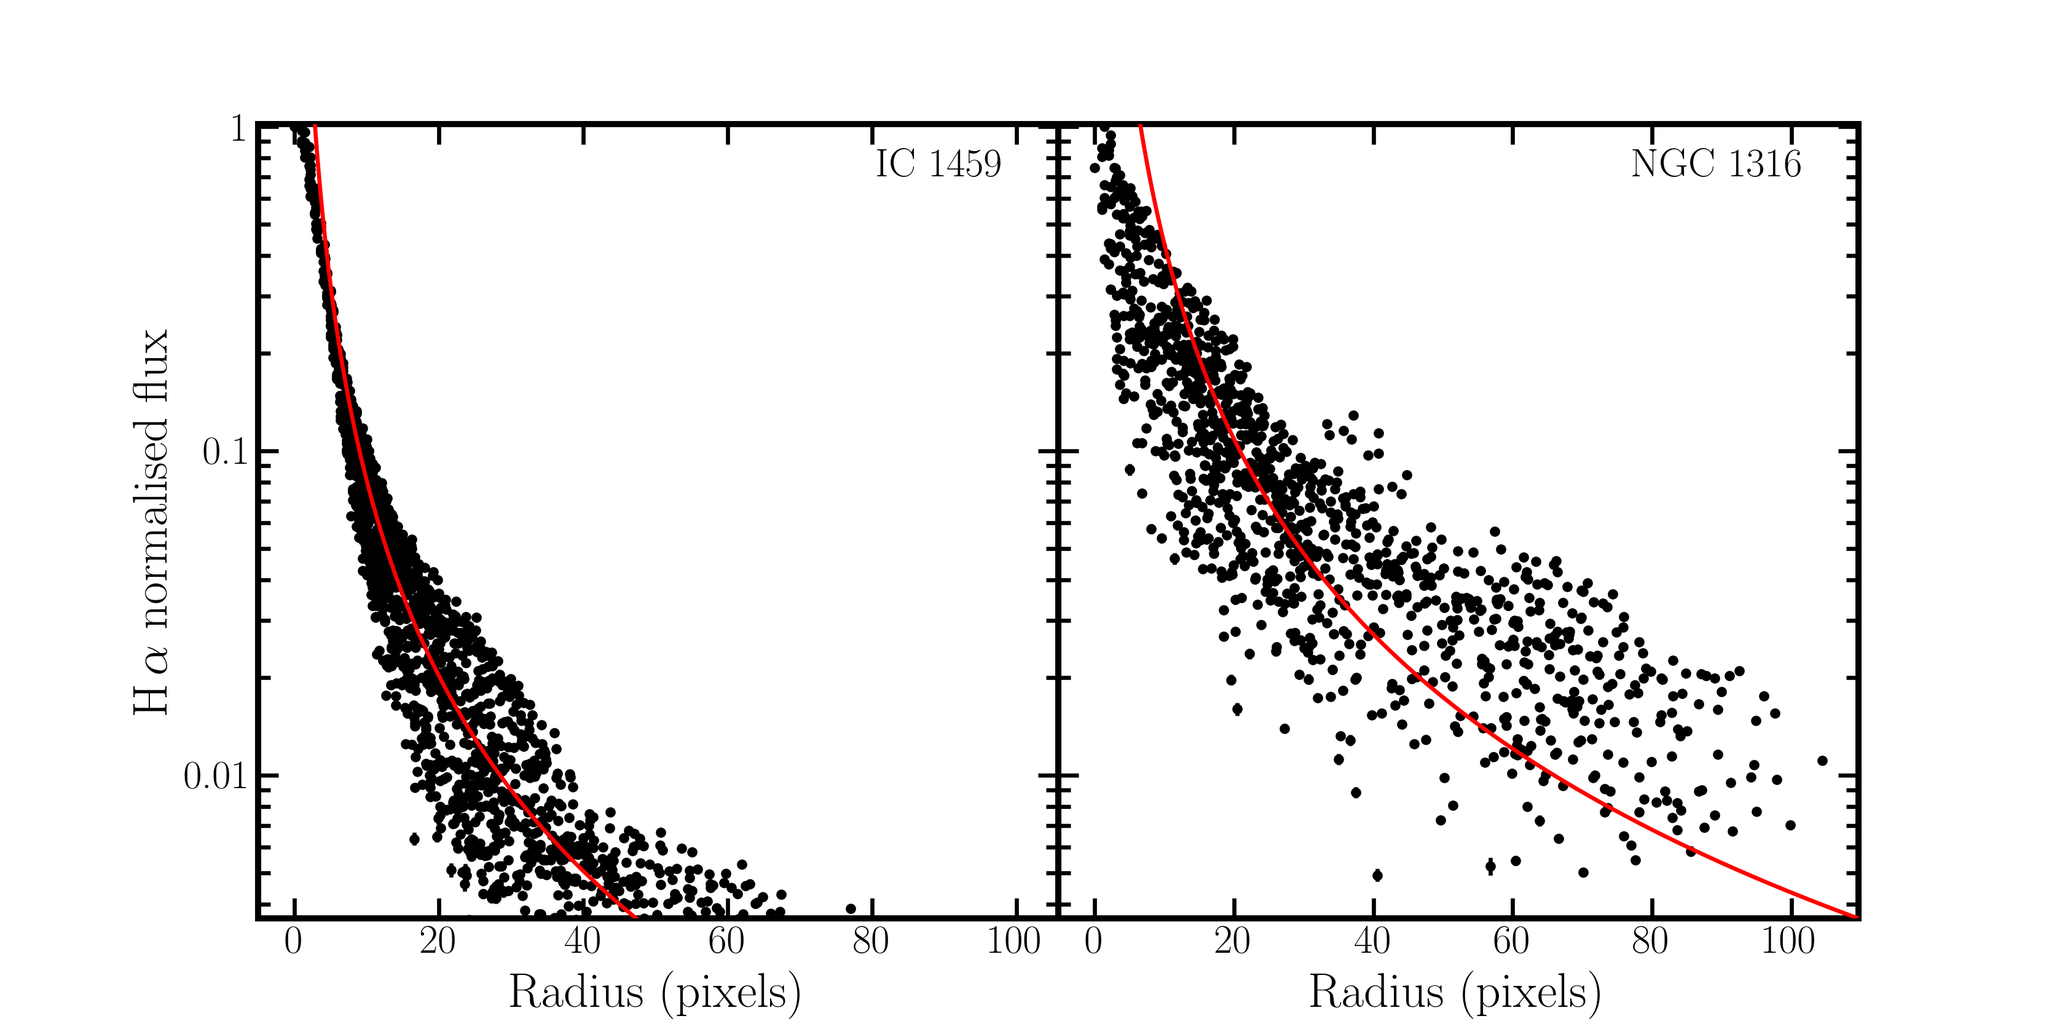
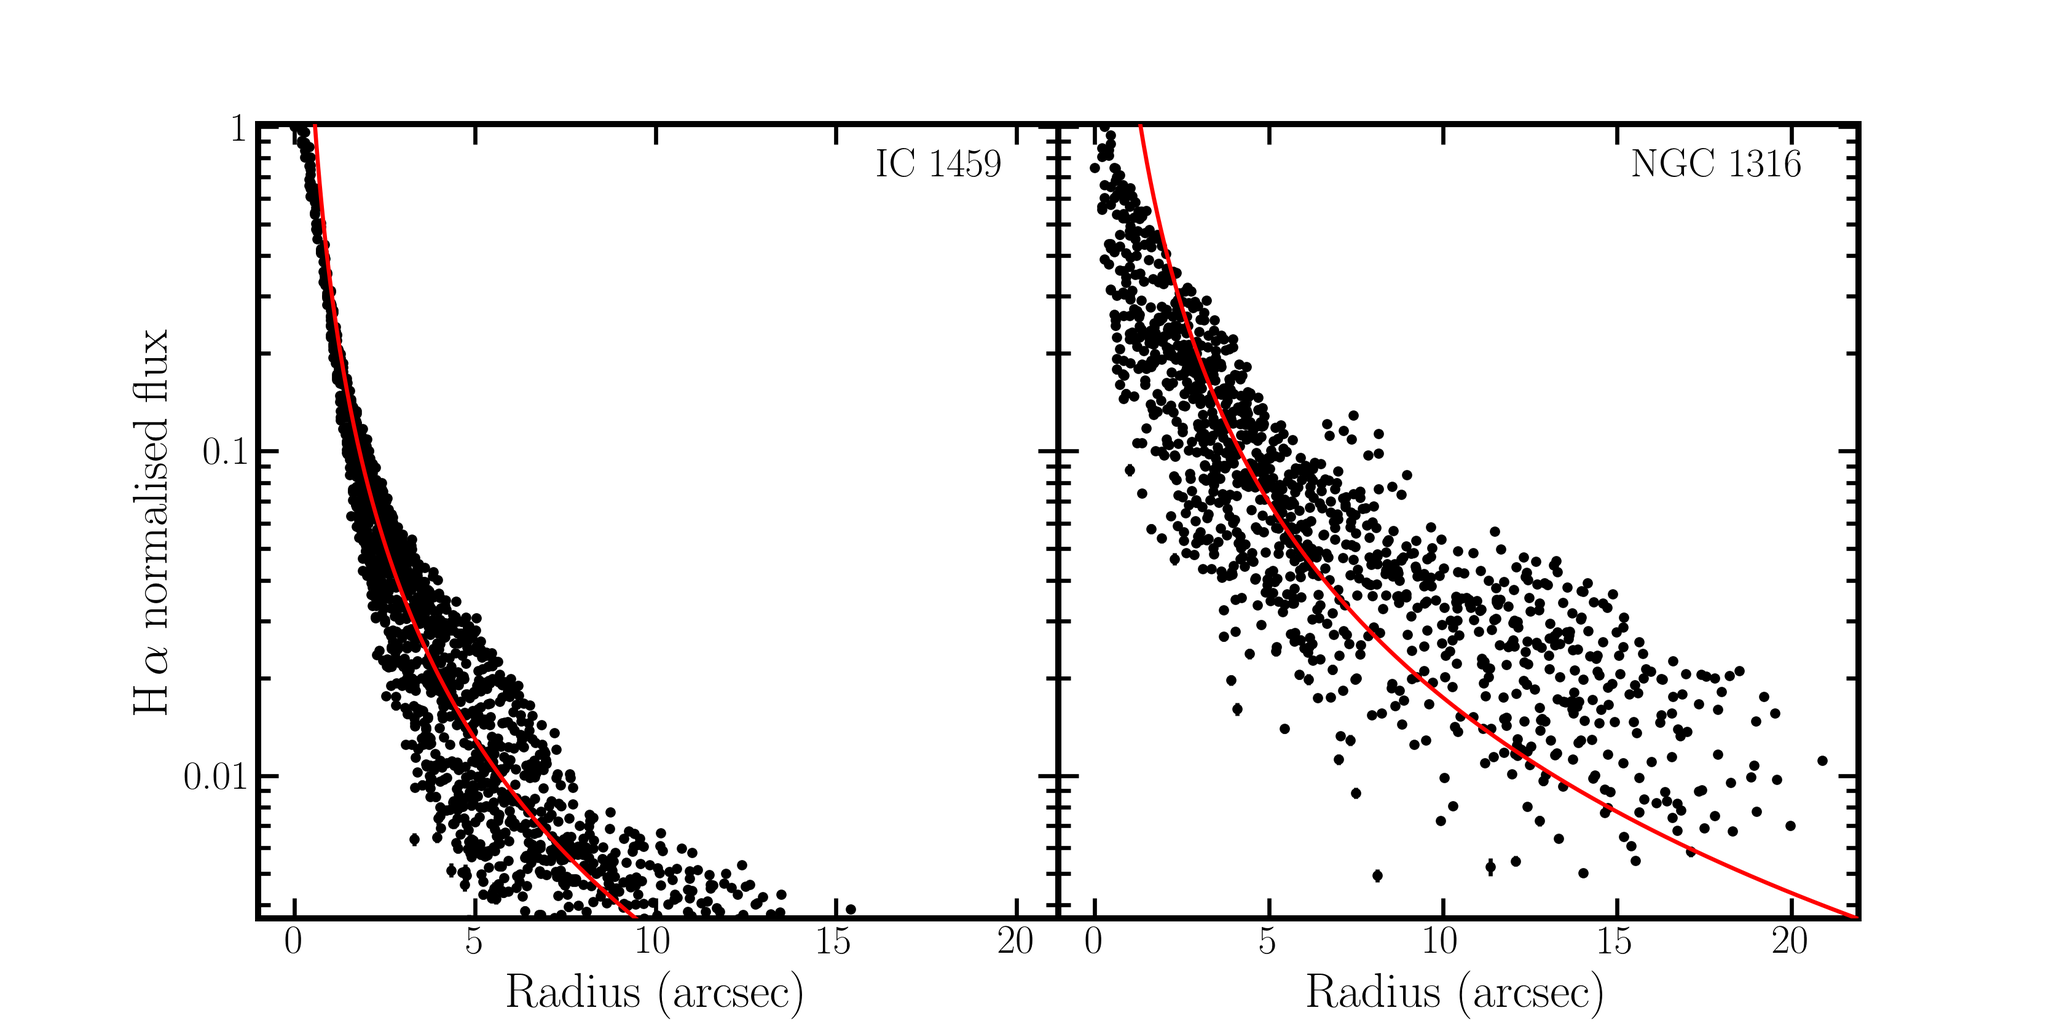
EoDC: Reworking translation to VIMOS emission lines
On branch master
 Changes to be committed:
	new file:   chapter5/EqW_fit.png
	modified:   chapter5/chapter5.tex
	modified:   chapter5/muse/Halpha_profile.png
	modified:   chapter5/produce_kine_plot.py
	new file:   chapter5/ratio_fit.png
	modified:   chapter5/vimos/Hbeta_profile.png

diff --git a/chapter5/chapter5.tex b/chapter5/chapter5.tex
@@ -175,46 +175,64 @@ This chapter is structured as follows. Firstly in Section \ref{sec:gasFlux} the 
 	% \subsection{Using Emission Line Beyond the VIMOS Wavelength Range}
 	\subsection{Extrapolating VIMOS Data}
 		\label{subsec:Ndec}
-
-		The Balmer decrement, $d_\mathrm{H}$, is the ratio of the H$\alpha$ to H$\beta$ fluxes. There are good theoretical motivations for this ratio to be near constant at $d_\mathrm{H} = 2.86$, under a wide variety of conditions. In reality, however, higher values are routinely observed. These can be explained as due to either the presence of dust causing extinction (whereby emission lines at shorter wavelengths appear dimmer than expected from their redder counterparts due to dust preferentially scattering and absorbing bluer light) or some mechanism that populates hydrogen levels from the ground up. Such mechanisms may be important in high-density environments, such as within powerful (type 1) AGN \citep[e.g.][]{Shields1974, Netzer1975}. 
-		%
-		The majority ($\approx 60$\%) of ETGs and all LINER and Seyfert galaxies are dusty \citep[e.g.][]{Martini2013}. 
-		Such galaxies reveal clear dust lanes in \textit{Hubble Space Telescope (HST)} observations \citep[e.g.][]{Martini2013}, are bright in the infrared (where the thermal emission from dust is seen as a dust ``bump''; e.g.\ \citealt{Jura1987, Knapp1992}), and possess other emission lines \citep[e.g.\ \bracket{\ion{S}{ii}};][]{Wampler1968} showing similar reddening. Thus, assuming the observed steepening of the Balmer decrement is entirely due to dust, the ratio of the observed decrement to the theoretical value of 2.86 is a good estimate of the dust reddening.
-
-		If we assume that different ionization states of a given atom occur in the same spatial location, then shielding is not important or at least is not non-linear in its effect on the emission-line ratios. Given that the different species are then produced under the same conditions, it is natural to expect a simple relationship between them. Using the emission line fluxes derived from our MUSE data, we find that the relationship between [\ion{N}{ii}] flux and [\ion{N}{i}] flux is approximately linear (see Fig.\,\ref{fig:NII_NI}). We emphasize that this is a purely empirical correlation and thus differs substantially from the Balmer decrement with its strong theoretical basis. 
-
-% I actually work with luminosity - how will that effect things?
-		To find the intrinsic conversion from [\ion{N}{i}] flux to [\ion{N}{ii}] flux we must first correct for dust reddening. Assuming that the extinction can be approximated by a linear form in the $V$-band, we correct the flux of the bluer emission line of the pair $F_\mathrm{b}$, using
-		\begin{equation}
-			F^\mathrm{corr}_\mathrm{b} = F_\mathrm{b} \left(\frac{\Delta\lambda}{\lambda_\mathrm{H\alpha} - \lambda_\mathrm{H\beta}}\right) \left(\frac{F_\mathrm{H\alpha}}{2.86 F_\mathrm{H\beta}}\right) \, ,
-		\end{equation}
-		where $\Delta\lambda$ is the difference in wavelength between the two lines, $\lambda_\mathrm{H\alpha}$ and $\lambda_\mathrm{H\beta}$ are the rest-frame wavelengths of the H$\alpha$ (6563 \AA) and H$\beta$ (4861 \AA) emission lines with fluxes of $F_\mathrm{H\alpha}$ and $F_\mathrm{H\beta}$, respectively and $F^\mathrm{corr}_\mathrm{b}$ is the dust-corrected flux of the bluer line. The intrinsic conversion can then be found by comparing $F^\mathrm{corr}_\mathrm{b}$ to $F_\mathrm{r}$, the flux of the redder line in the pair. 
-
-		In Fig.\,\ref{fig:NII_NI}, we fit a straight line to the [\ion{N}{ii}] flux versus [\ion{N}{i}] (flux corrected for dust extinction) relation of IC 1459 and NGC 1316 using the least-trimmed squares routine, \textsc{lts\_linefit} of \citet{Cappellari2013} due to its robust handling of the uncertainties along both axes. 
-% THIS NEEDS SOME WORK!!!  *****^^^^^^^^^
-		As can be seen in the figure, there two galaxies have quite different gradients. We require a single function in order to be able to use [\ion{N}{i}] as a proxy for [\ion{N}{ii}] for our VIMOS data. We thus fit each galaxy independently and use the mean gradient, neglecting the intercept. We find a mean gradient of $12.23 \pm 0.14$.
+		As stated above, most of the diagnostic plots for identifying the dominant source of ionization in a given galaxy require measurements of emissions line that lie outside of the spectral range of VIMOS. As such, to be able to classify our VIMOS data in this way we transform the classification boundary lines to plots involving the same atoms, but different ionization species e.g.\ 
+		% Is species the right word?
+		transform from the classic BPT [\ion{N}{ii}]/H$\alpha$ versus [\ion{O}{iii}]/H$\beta$ to [\ion{N}{i}]/H$\beta$ versus [\ion{O}{iii}]/H$\beta$ diagnostic plot (hereafter the SAURON diagnostic plot). 
 
 		\begin{figure}
 			\centering
-			\includegraphics[width=0.7\textwidth]{chapter5/NII_NI_ratio.png}
-			\caption[The nitrogen `decrement']{Nitrogen `decrement': plot of the [\ion{N}{ii}] versus [\ion{N}{i}] flux for the galaxies IC 1459 and NGC 1316, used to transform the classification boundaries of line ratio diagnostics involving [\ion{N}{ii}] to those involving [\ion{N}{i}]. The line fluxes have been corrected for the galaxies' distances.} 
-			\label{fig:NII_NI}
+			\includegraphics[width=0.7\textwidth]{chapter5/ratio_fit.png}
+			\caption[\brackets{\ion{N}{ii}}/H$\alpha$ vs \brackets{\ion{N}{i}}/H$\beta$]{Comparing [\ion{N}{ii}]/H$\alpha$ and [\ion{N}{i}]/H$\beta$ line ratios for the galaxies IC 1459 and NGC 1316, used to transform the classification boundaries of diagnostics involving the H$\alpha$ equivalent width to those involving H$\beta$.} 
+			\label{fig:ratio_relation}
 		\end{figure}
-
-		% Some of the brightest bins in Figs.\,\ref{fig:NII_NI} and \ref{figLOI_OIII} deviate away from the best-fitting line, with an excess in the bluer line. Given that these bins are located at the centre of the galaxy, we suggest that we are possibly over correcting for dust in these regions and that some of the reddening for the Balmer decrement is actually due to the different conditions close to the AGN. 
-
-		To use the H$\beta$ equivalent width instead of the H$\alpha$ equivalent width, we require not only the Balmer decrement, but also the stellar `decrement', i.e.\ the ratio of the continuum level at H$\alpha$ to that at H$\beta$. In the same manner as we did for the Nitrogen `decrement', we find in Fig.\,\ref{fig:stellarDec} an approximately linear relationship between the continuum level at 6563\,\AA, $C_\text{6563\AA}$, and the continuum level corrected for dust extinction at 4861\,\AA, $C^\text{corr}_\text{4861\AA}$, using our MUSE data of IC 1459 and NGC 1316. Using the data shown in Fig.\,\ref{fig:stellarDec}, we find
-		\begin{equation}
-			C_\text{6563\AA} = \,  (0.142\pm0.004757) \times 10^{-6} + (1.047\pm0.008) C^\text{corr}_\text{4861\AA} \, .
-		\end{equation}
-		This is used to be transform the classification boundaries of diagnostics dependent on the equivalent width of H$\alpha$ to those involving H$\beta$. 
 
 		\begin{figure}
 			\centering
-			\includegraphics[width=0.7\textwidth]{chapter5/stellar_ratio.png}
-			\caption[The stellar `decrement']{Stellar `decrement'. Plot of the continuum flux at H$\alpha$ versus the continuum flux at H$\beta$ for the galaxies IC 1459 and NGC 1316, used to transform the classification boundaries of diagnostics involving the H$\alpha$ equivalent width to those involving H$\beta$. As in Fig.\,\ref{fig:NII_NI}m the fluxes have been corrected for the galaxies' distances.} 
-			\label{fig:stellarDec}
+			\includegraphics[width=0.7\textwidth]{chapter5/EQw_fit.png}
+			\caption[Comparing H$\alpha$ and H$\beta$ equivalent widths]{Comparing H$\alpha$ and H$\beta$ equivalent widths for the galaxies IC 1459 and NGC 1316. The best-fit relationship is used to transform the classification boundaries of the classic [\ion{N}{ii}] BPT plot to the SARUON diagnostic plot.} 
+			\label{fig:ratio_relation}
 		\end{figure}
+
+% 		The Balmer decrement, $d_\mathrm{H}$, is the ratio of the H$\alpha$ to H$\beta$ fluxes. There are good theoretical motivations for this ratio to be near constant at $d_\mathrm{H} = 2.86$, under a wide variety of conditions. In reality, however, higher values are routinely observed. These can be explained as due to either the presence of dust causing extinction (whereby emission lines at shorter wavelengths appear dimmer than expected from their redder counterparts due to dust preferentially scattering and absorbing bluer light) or some mechanism that populates hydrogen levels from the ground up. Such mechanisms may be important in high-density environments, such as within powerful (type 1) AGN \citep[e.g.][]{Shields1974, Netzer1975}. 
+% 		%
+% 		The majority ($\approx 60$\%) of ETGs and all LINER and Seyfert galaxies are dusty \citep[e.g.][]{Martini2013}. 
+% 		Such galaxies reveal clear dust lanes in \textit{Hubble Space Telescope (HST)} observations \citep[e.g.][]{Martini2013}, are bright in the infrared (where the thermal emission from dust is seen as a dust ``bump''; e.g.\ \citealt{Jura1987, Knapp1992}), and possess other emission lines \citep[e.g.\ \bracket{\ion{S}{ii}};][]{Wampler1968} showing similar reddening. Thus, assuming the observed steepening of the Balmer decrement is entirely due to dust, the ratio of the observed decrement to the theoretical value of 2.86 is a good estimate of the dust reddening.
+
+% 		If we assume that different ionization states of a given atom occur in the same spatial location, then shielding is not important or at least is not non-linear in its effect on the emission-line ratios. Given that the different species are then produced under the same conditions, it is natural to expect a simple relationship between them. Using the emission line fluxes derived from our MUSE data, we find that the relationship between [\ion{N}{ii}] flux and [\ion{N}{i}] flux is approximately linear (see Fig.\,\ref{fig:NII_NI}). We emphasize that this is a purely empirical correlation and thus differs substantially from the Balmer decrement with its strong theoretical basis. 
+
+% % I actually work with luminosity - how will that effect things?
+% 		To find the intrinsic conversion from [\ion{N}{i}] flux to [\ion{N}{ii}] flux we must first correct for dust reddening. Assuming that the extinction can be approximated by a linear form in the $V$-band, we correct the flux of the bluer emission line of the pair $F_\mathrm{b}$, using
+% 		\begin{equation}
+% 			F^\mathrm{corr}_\mathrm{b} = F_\mathrm{b} \left(\frac{\Delta\lambda}{\lambda_\mathrm{H\alpha} - \lambda_\mathrm{H\beta}}\right) \left(\frac{F_\mathrm{H\alpha}}{2.86 F_\mathrm{H\beta}}\right) \, ,
+% 		\end{equation}
+% 		where $\Delta\lambda$ is the difference in wavelength between the two lines, $\lambda_\mathrm{H\alpha}$ and $\lambda_\mathrm{H\beta}$ are the rest-frame wavelengths of the H$\alpha$ (6563 \AA) and H$\beta$ (4861 \AA) emission lines with fluxes of $F_\mathrm{H\alpha}$ and $F_\mathrm{H\beta}$, respectively and $F^\mathrm{corr}_\mathrm{b}$ is the dust-corrected flux of the bluer line. The intrinsic conversion can then be found by comparing $F^\mathrm{corr}_\mathrm{b}$ to $F_\mathrm{r}$, the flux of the redder line in the pair. 
+
+% 		In Fig.\,\ref{fig:NII_NI}, we fit a straight line to the [\ion{N}{ii}] flux versus [\ion{N}{i}] (flux corrected for dust extinction) relation of IC 1459 and NGC 1316 using the least-trimmed squares routine, \textsc{lts\_linefit} of \citet{Cappellari2013} due to its robust handling of the uncertainties along both axes. 
+% % THIS NEEDS SOME WORK!!!  *****^^^^^^^^^
+% 		As can be seen in the figure, there two galaxies have quite different gradients. We require a single function to be able to use [\ion{N}{i}] as a proxy for [\ion{N}{ii}] for our VIMOS data. We thus fit each galaxy independently and use the mean gradient, neglecting the intercept. We find a mean gradient of $12.23 \pm 0.14$.
+
+% 		\begin{figure}
+% 			\centering
+% 			\includegraphics[width=0.7\textwidth]{chapter5/NII_NI_ratio.png}
+% 			\caption[The nitrogen `decrement']{Nitrogen `decrement': plot of the [\ion{N}{ii}] versus [\ion{N}{i}] flux for the galaxies IC 1459 and NGC 1316, used to transform the classification boundaries of line ratio diagnostics involving [\ion{N}{ii}] to those involving [\ion{N}{i}]. The line fluxes have been corrected for the galaxies' distances.} 
+% 			\label{fig:NII_NI}
+% 		\end{figure}
+
+% 		% Some of the brightest bins in Figs.\,\ref{fig:NII_NI} and \ref{figLOI_OIII} deviate away from the best-fitting line, with an excess in the bluer line. Given that these bins are located at the centre of the galaxy, we suggest that we are possibly over correcting for dust in these regions and that some of the reddening for the Balmer decrement is actually due to the different conditions close to the AGN. 
+
+% 		To use the H$\beta$ equivalent width instead of the H$\alpha$ equivalent width, we require not only the Balmer decrement, but also the stellar `decrement', i.e.\ the ratio of the continuum level at H$\alpha$ to that at H$\beta$. In the same manner as we did for the Nitrogen `decrement', we find in Fig.\,\ref{fig:stellarDec} an approximately linear relationship between the continuum level at 6563\,\AA, $C_\text{6563\AA}$, and the continuum level corrected for dust extinction at 4861\,\AA, $C^\text{corr}_\text{4861\AA}$, using our MUSE data of IC 1459 and NGC 1316. Using the data shown in Fig.\,\ref{fig:stellarDec}, we find
+% 		\begin{equation}
+% 			C_\text{6563\AA} = \,  (0.142\pm0.004757) \times 10^{-6} + (1.047\pm0.008) C^\text{corr}_\text{4861\AA} \, .
+% 		\end{equation}
+% 		This is used to be transform the classification boundaries of diagnostics dependent on the equivalent width of H$\alpha$ to those involving H$\beta$. 
+
+% 		\begin{figure}
+% 			\centering
+% 			\includegraphics[width=0.7\textwidth]{chapter5/stellar_ratio.png}
+% 			\caption[The stellar `decrement']{Stellar `decrement'. Plot of the continuum flux at H$\alpha$ versus the continuum flux at H$\beta$ for the galaxies IC 1459 and NGC 1316, used to transform the classification boundaries of diagnostics involving the H$\alpha$ equivalent width to those involving H$\beta$. As in Fig.\,\ref{fig:NII_NI}m the fluxes have been corrected for the galaxies' distances.} 
+% 			\label{fig:stellarDec}
+% 		\end{figure}
+
 
 	\subsection{BPT Diagnostics}
 		\label{subsec:BPT}
@@ -234,7 +252,7 @@ This chapter is structured as follows. Firstly in Section \ref{sec:gasFlux} the 
 			\label{fig:SAURON}
 		\end{figure}
 
-		\citet{Sarzi2010} showed that Seyferts, LINERs and star-forming galaxies are reasonable separated in the [\ion{N}{i}]/H$\beta$ versus [\ion{O}{iii}]/H$\beta$ diagnostic plot (hereafter the SAURON diagnostic plot). To exploit the VIMOS datacubes we thus use the [\ion{N}{ii}] -- [\ion{N}{i}] relation derived in Section \ref{subsec:Ndec}, along with the Balmer decrement, to transform the \citet{Kewley2001} extreme starburst and the \citet{Kauffmann2003a} pure star-formation boundaries in the [\ion{N}{ii}]/H$\alpha$ versus [\ion{O}{iii}]/H$\beta$ plot to boundaries in the SAURON plot. For the MUSE datacubes, only IC 1459 and NGC 1316 have detections of [\ion{N}{i}]. Given that we already have the superior classic BPT plots for these galaxies, we only show the VIMOS-derived SAURON diagnostic plot. This is shown in Fig.\,\ref{fig:SAURON} for all 6 VIMOS galaxies with detectable, spatially-resolved emission lines. All exhibit LINER-AGN behaviour.
+		\citet{Sarzi2010} showed that Seyferts, LINERs and star-forming galaxies are reasonable separated in the SAURON diagnostic plot. To exploit the VIMOS datacubes we thus use the [\ion{N}{ii}] -- [\ion{N}{i}] relation derived in Section \ref{subsec:Ndec}, along with the Balmer decrement, to transform the \citet{Kewley2001} extreme starburst and the \citet{Kauffmann2003a} pure star-formation boundaries in the [\ion{N}{ii}]/H$\alpha$ versus [\ion{O}{iii}]/H$\beta$ plot to boundaries in the SAURON plot. For the MUSE datacubes, only IC 1459 and NGC 1316 have detections of [\ion{N}{i}]. Given that we already have the superior classic BPT plots for these galaxies, we only show the VIMOS-derived SAURON diagnostic plot. This is shown in Fig.\,\ref{fig:SAURON} for all 6 VIMOS galaxies with detectable, spatially-resolved emission lines. All exhibit LINER-AGN behaviour.
 
 		
 

diff --git a/chapter5/produce_kine_plot.py b/chapter5/produce_kine_plot.py
@@ -220,8 +220,9 @@ def ngc1316_inflow():
 	instrument = 'muse'
 	from plot_results_muse import add_
 	from errors2_muse import get_dataCubeDirectory
+	import disk_fit_functions_binned as dfn
 
-	Prefig(size=np.array((3.5, 1))*7)
+	Prefig(size=np.array((3.5, 1))*5.5)
 	fig, ax = plt.subplots(1,3)
 
 	f = fits.open(get_dataCubeDirectory(galaxy))
@@ -237,21 +238,27 @@ def ngc1316_inflow():
 	D = pickle.load(pickleFile)
 	pickleFile.close()
 
+	vel = D.components['[OIII]5007d'].plot['vel']
+	m = ~np.isnan(vel)
+
+	d, params = dfn.disk_fit_exp(D.xBar[m], D.yBar[m], np.array(vel).copy()[m], 
+		vel.uncert.copy()[m], sigclip=5.0, leeway=0., verbose=False, grid_length=150)
+	d *= -1 # Seems to be slight quirk of the system.
+	params[5:] *= -1
+	disc = vel.copy() # reinsert nans
+	disc[m] = d
+
 	vmin, vmax = set_lims(D.components['[OIII]5007d'].plot['vel'], 
 		symmetric=True, positive=False)
 	ax[0] = plot_velfield_nointerp(D.x, D.y, D.bin_num, D.xBar, D.yBar, 
-		D.components['[OIII]5007d'].plot['vel'], header, vmin=vmin, 
-		vmax=vmax, nodots=True, flux_unbinned=D.unbinned_flux,
+		vel, header, vmin=vmin, max=vmax, nodots=True, flux_unbinned=D.unbinned_flux,
 		colorbar=False, ax=ax[0])
 	ax[1] = plot_velfield_nointerp(D.x, D.y, D.bin_num, D.xBar, D.yBar, 
-		D.components['stellar'].plot['vel'], header, vmin=vmin, 
-		vmax=vmax, nodots=True, flux_unbinned=D.unbinned_flux,
-		colorbar=False, ax=ax[1])
+		disc, header, vmin=vmin, vmax=vmax, nodots=True, 
+		flux_unbinned=D.unbinned_flux, colorbar=False, ax=ax[1])
 	ax[2] = plot_velfield_nointerp(D.x, D.y, D.bin_num, D.xBar, D.yBar, 
-		D.components['[OIII]5007d'].plot['vel'] 
-		- D.components['stellar'].plot['vel'], header, vmin=vmin, 
-		vmax=vmax, nodots=True, flux_unbinned=D.unbinned_flux,
-		colorbar=False, ax=ax[2])
+		vel - disc, header, vmin=vmin, vmax=vmax, nodots=True, 
+		flux_unbinned=D.unbinned_flux, colorbar=False, ax=ax[2])
 
 	for a in ax:
 		for o, color in {'radio':'g','CO':'c'}.iteritems():
@@ -270,8 +277,8 @@ def ngc1316_inflow():
 			if hasattr(a, 'ax_dis'):
 				a.ax_dis.set_position(ax_loc)
 
-	for i, t in enumerate([r'$V_\mathrm{gas}$', r'$V_\mathrm{stars}$', 
-		r'$V_\mathrm{residuals} = V_\mathrm{gas} - V_\mathrm{stars}$']):
+	for i, t in enumerate([r'$V_\mathrm{gas}$', r'$V_\mathrm{model}$', 
+		r'$V_\mathrm{residuals} = V_\mathrm{gas} - V_\mathrm{model}$']):
 		fig.text(ax[i].ax_dis.get_position().x0+0.02, 
 			ax[i].ax_dis.get_position().y1-0.03, t, va='top')
 
@@ -288,7 +295,7 @@ def ngc1316_inflow():
 		rotation=270, verticalalignment='center')
 	
 	fig.savefig('%s/Documents/thesis/chapter5/ngc1316_inflow.png' % (
-		cc.home_dir), dpi=240)
+		cc.home_dir), dpi=300)
 
 
 
@@ -657,11 +664,13 @@ def H_profile(instrument='vimos'):
 		str_galaxies = np.array(['IC 1459', 'NGC 612', 'NGC 3100'])
 		cols = (4, 5)
 		line = 'Hbeta'
+		res = 0.67 # arcsec/pix
 	elif instrument=='muse':
 		galaxies = np.array(['ic1459', 'ngc1316'])
 		str_galaxies = np.array(['IC 1459', 'NGC 1316'])
 		cols = (1, 2)
 		line = 'Halpha'
+		res = 0.2 # arcsec/pix
 
 	Prefig(size=np.array((len(galaxies), 1))*7)
 	fig, ax = plt.subplots(1, len(galaxies), sharey=True)#, sharex=True)
@@ -685,7 +694,7 @@ def H_profile(instrument='vimos'):
 		i_gal = np.where(galaxy_gals==galaxy)[0][0]
 		center = (x_cent_gals[i_gal], y_cent_gals[i_gal])
 
-		r = np.sqrt((D.xBar - center[0])**2 + (D.yBar - center[1])**2)
+		r = np.sqrt((D.xBar - center[0])**2 + (D.yBar - center[1])**2) * res
 		if line in D.e_components:
 
 			H = D.e_line[line].flux
@@ -729,7 +738,7 @@ def H_profile(instrument='vimos'):
 	if instrument == 'muse':
 		ax[0].set_ylabel(r'H$\,\alpha$ normalised flux')
 	for a in ax:
-		a.set_xlabel('Radius (pixels)')
+		a.set_xlabel('Radius (arcsec)')
 	# for a in ax[1:].flatten():
 	# 	a.set_yticklabels([])
 	# 	a.set_ylabel('')
@@ -746,19 +755,19 @@ if __name__=='__main__':
 	if 'home' in cc.device:
 		H_profile(instrument='vimos')
 
-		WHbN1()
+		# WHbN1()
 		
-		SAURON()
+		# SAURON()
 
-		plot(['ic1459', 'ngc0612', 'ngc3100'], 
-			['IC 1459', 'NGC 612', 'NGC 3100'], 'kin', 'vimos')
+		# plot(['ic1459', 'ngc0612', 'ngc3100'], 
+		# 	['IC 1459', 'NGC 612', 'NGC 3100'], 'kin', 'vimos')
 	elif cc.device == 'uni':
-		ic4296_WHaN2()
+		# ic4296_WHaN2()
 
-		H_profile(instrument='muse')
+		# H_profile(instrument='muse')
 
 		ngc1316_inflow()
 
-		BPT()
+		# BPT()
 
-		plot(['ic1459', 'ngc1316'], ['IC 1459', 'NGC 1316'], 'kin', 'muse')
+		# plot(['ic1459', 'ngc1316'], ['IC 1459', 'NGC 1316'], 'kin', 'muse')
